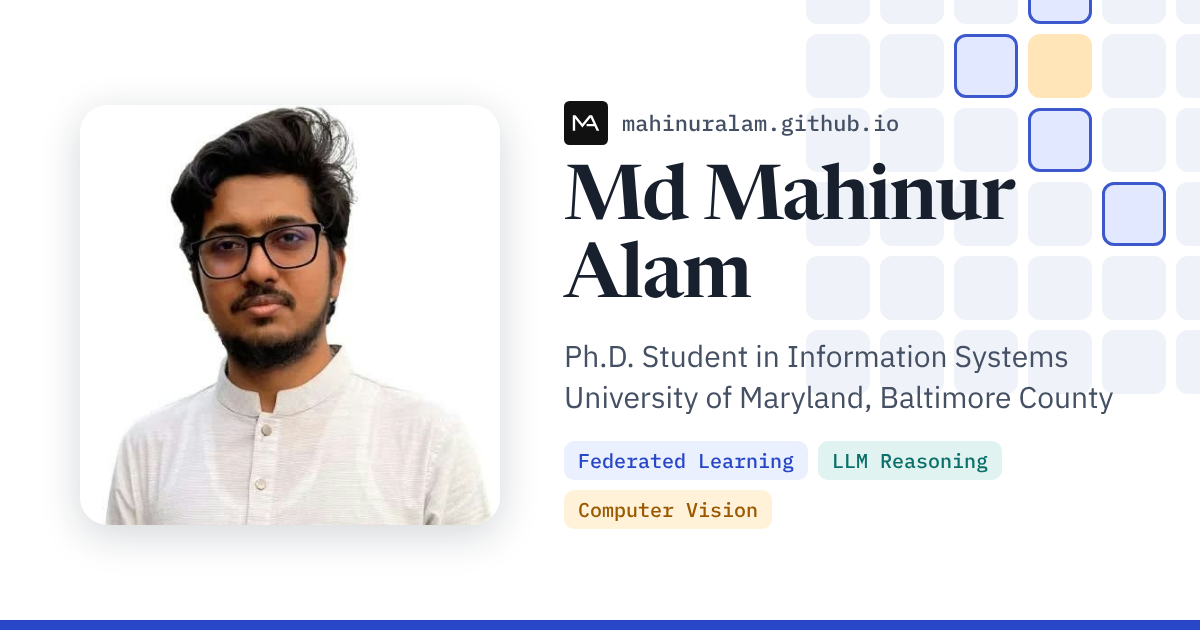
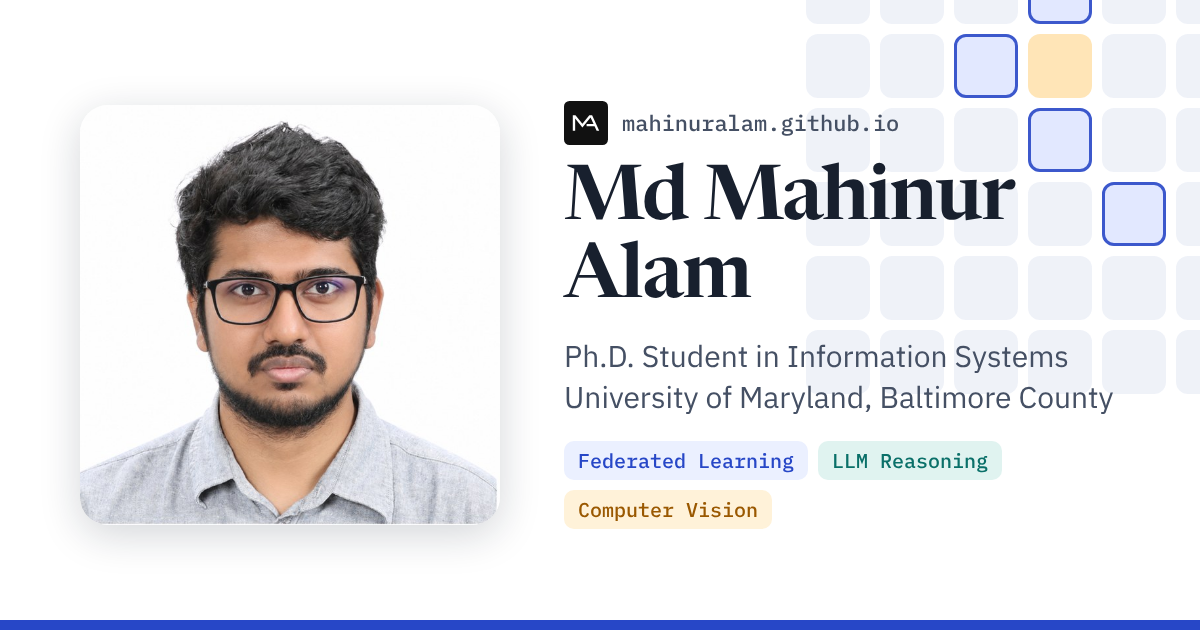
Replace the profile photo
Use the new portrait in the sidebar and on the link-preview card.

Claude-Session: https://claude.ai/code/session_01PDNt9u9bdecjmGnnKQyqPL

Changed region(s): [[0.0617, 0.1508, 0.4317, 0.8444]]

diff --git a/index.html b/index.html
@@ -131,7 +131,7 @@
 
   <!-- ===================================================== PROFILE -->
   <aside class="profile" aria-label="Profile">
-    <img class="profile__photo" src="images/profile.jpg?v=2" width="467" height="467" alt="Portrait of Md Mahinur Alam">
+    <img class="profile__photo" src="images/profile.jpg?v=3" width="640" height="640" alt="Portrait of Md Mahinur Alam">
     <div class="profile__head">
       <h1 class="profile__name">Md Mahinur Alam</h1>
       <p class="profile__role">Ph.D. Student, Information Systems<br>Federated Learning · LLM Reasoning · Computer Vision</p>
